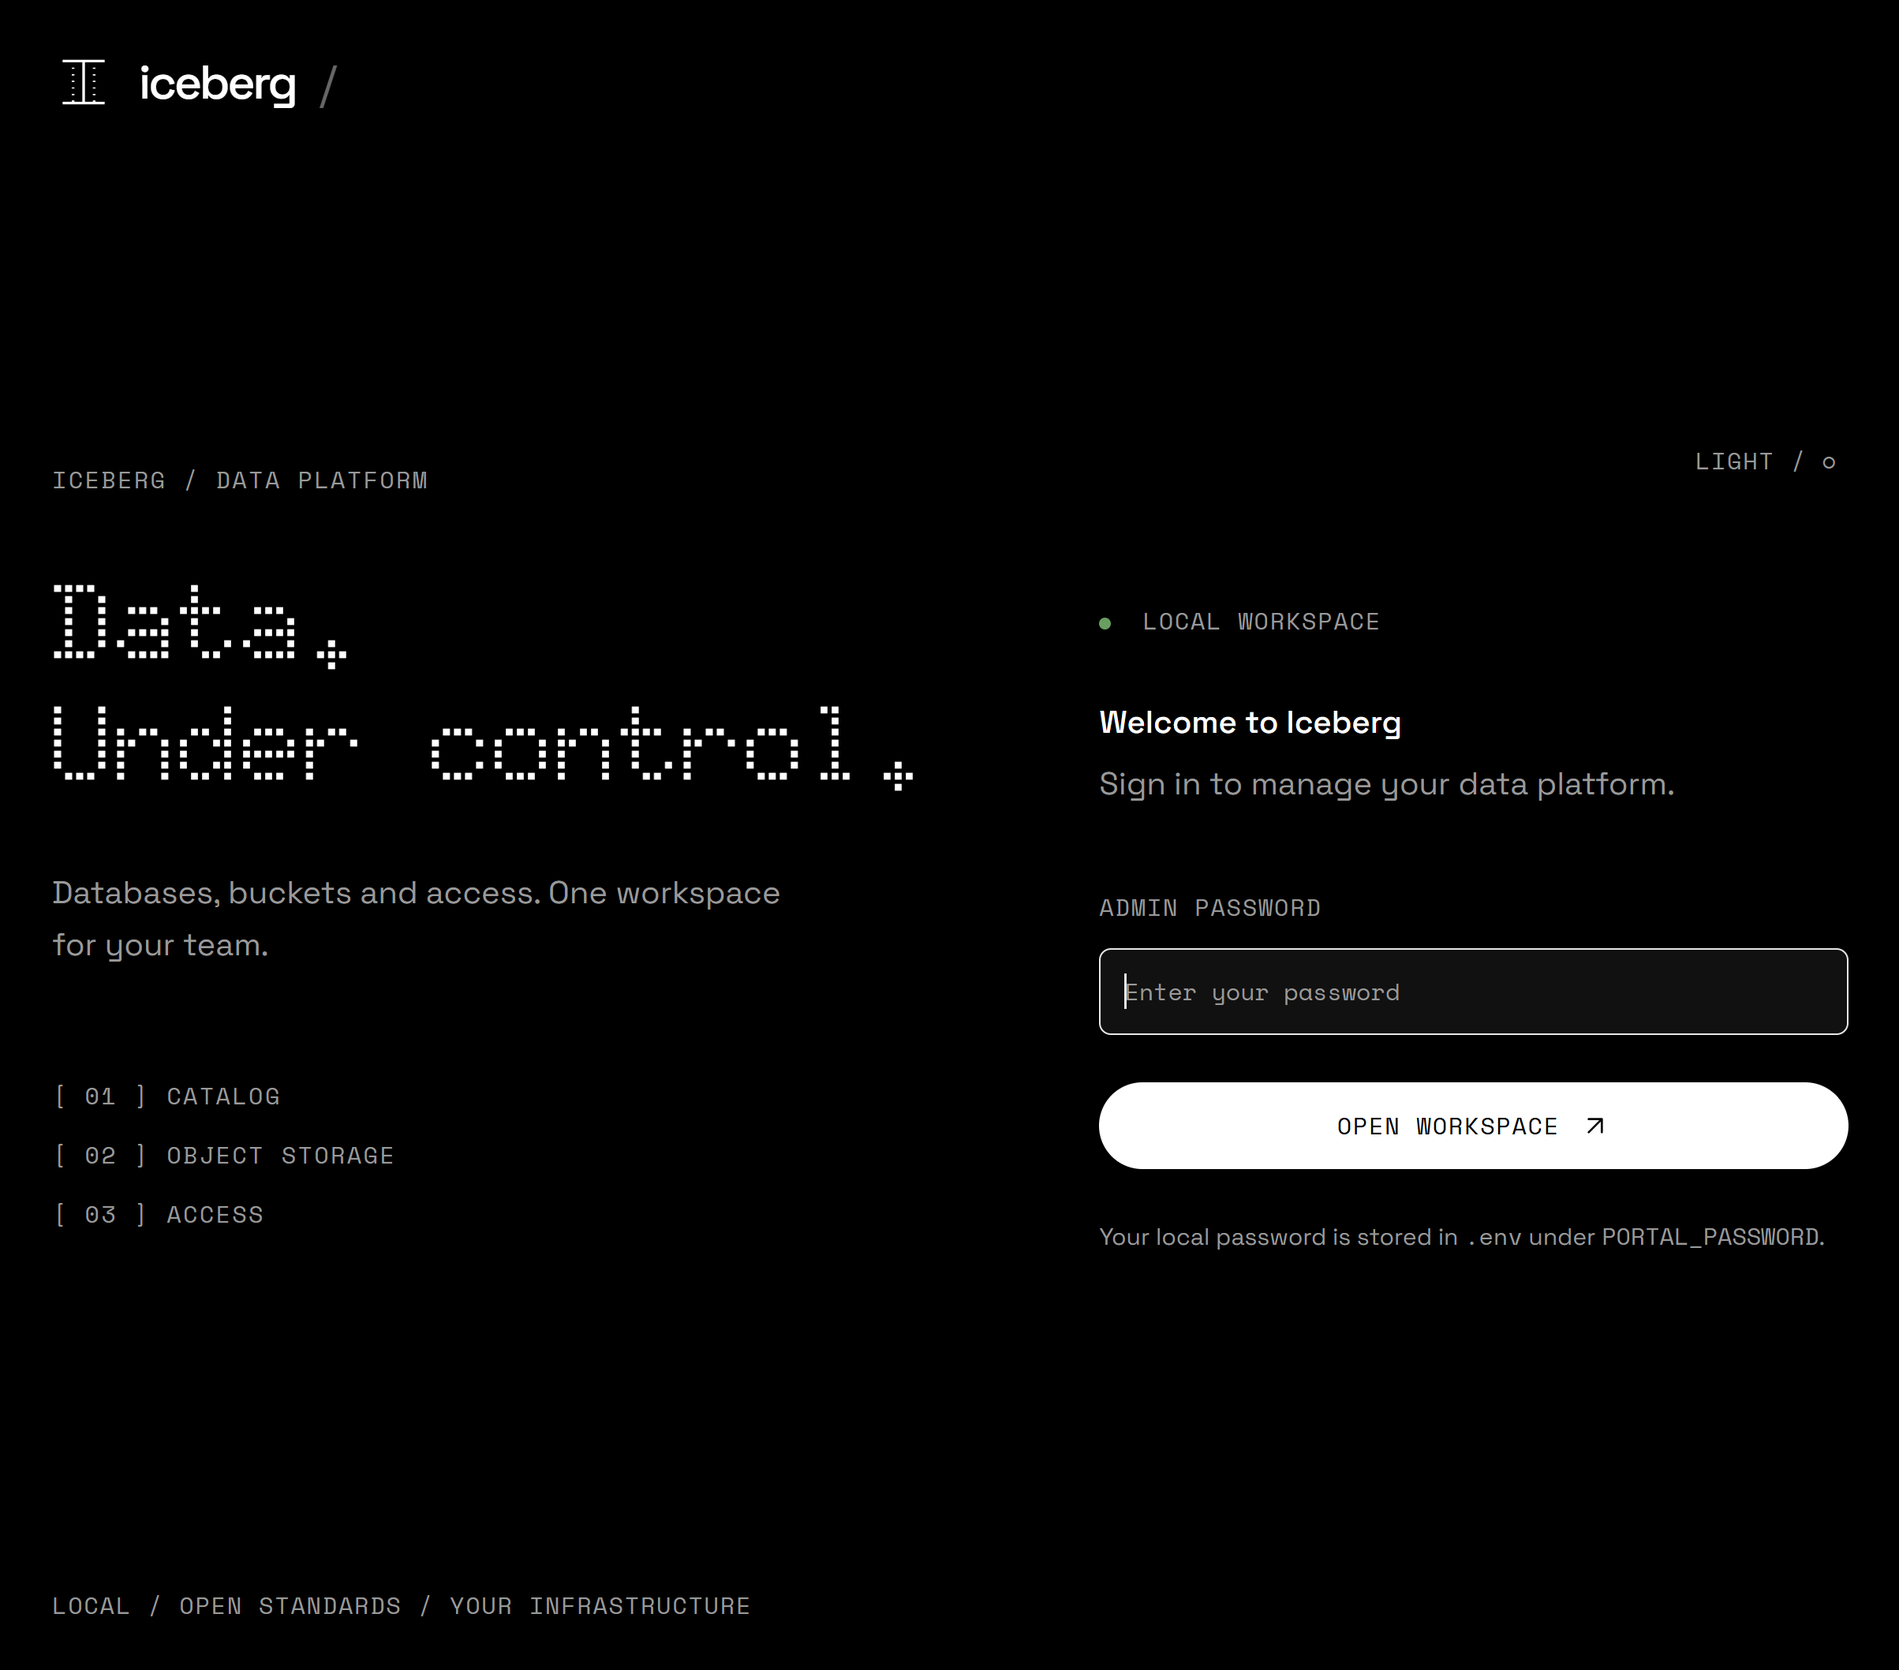
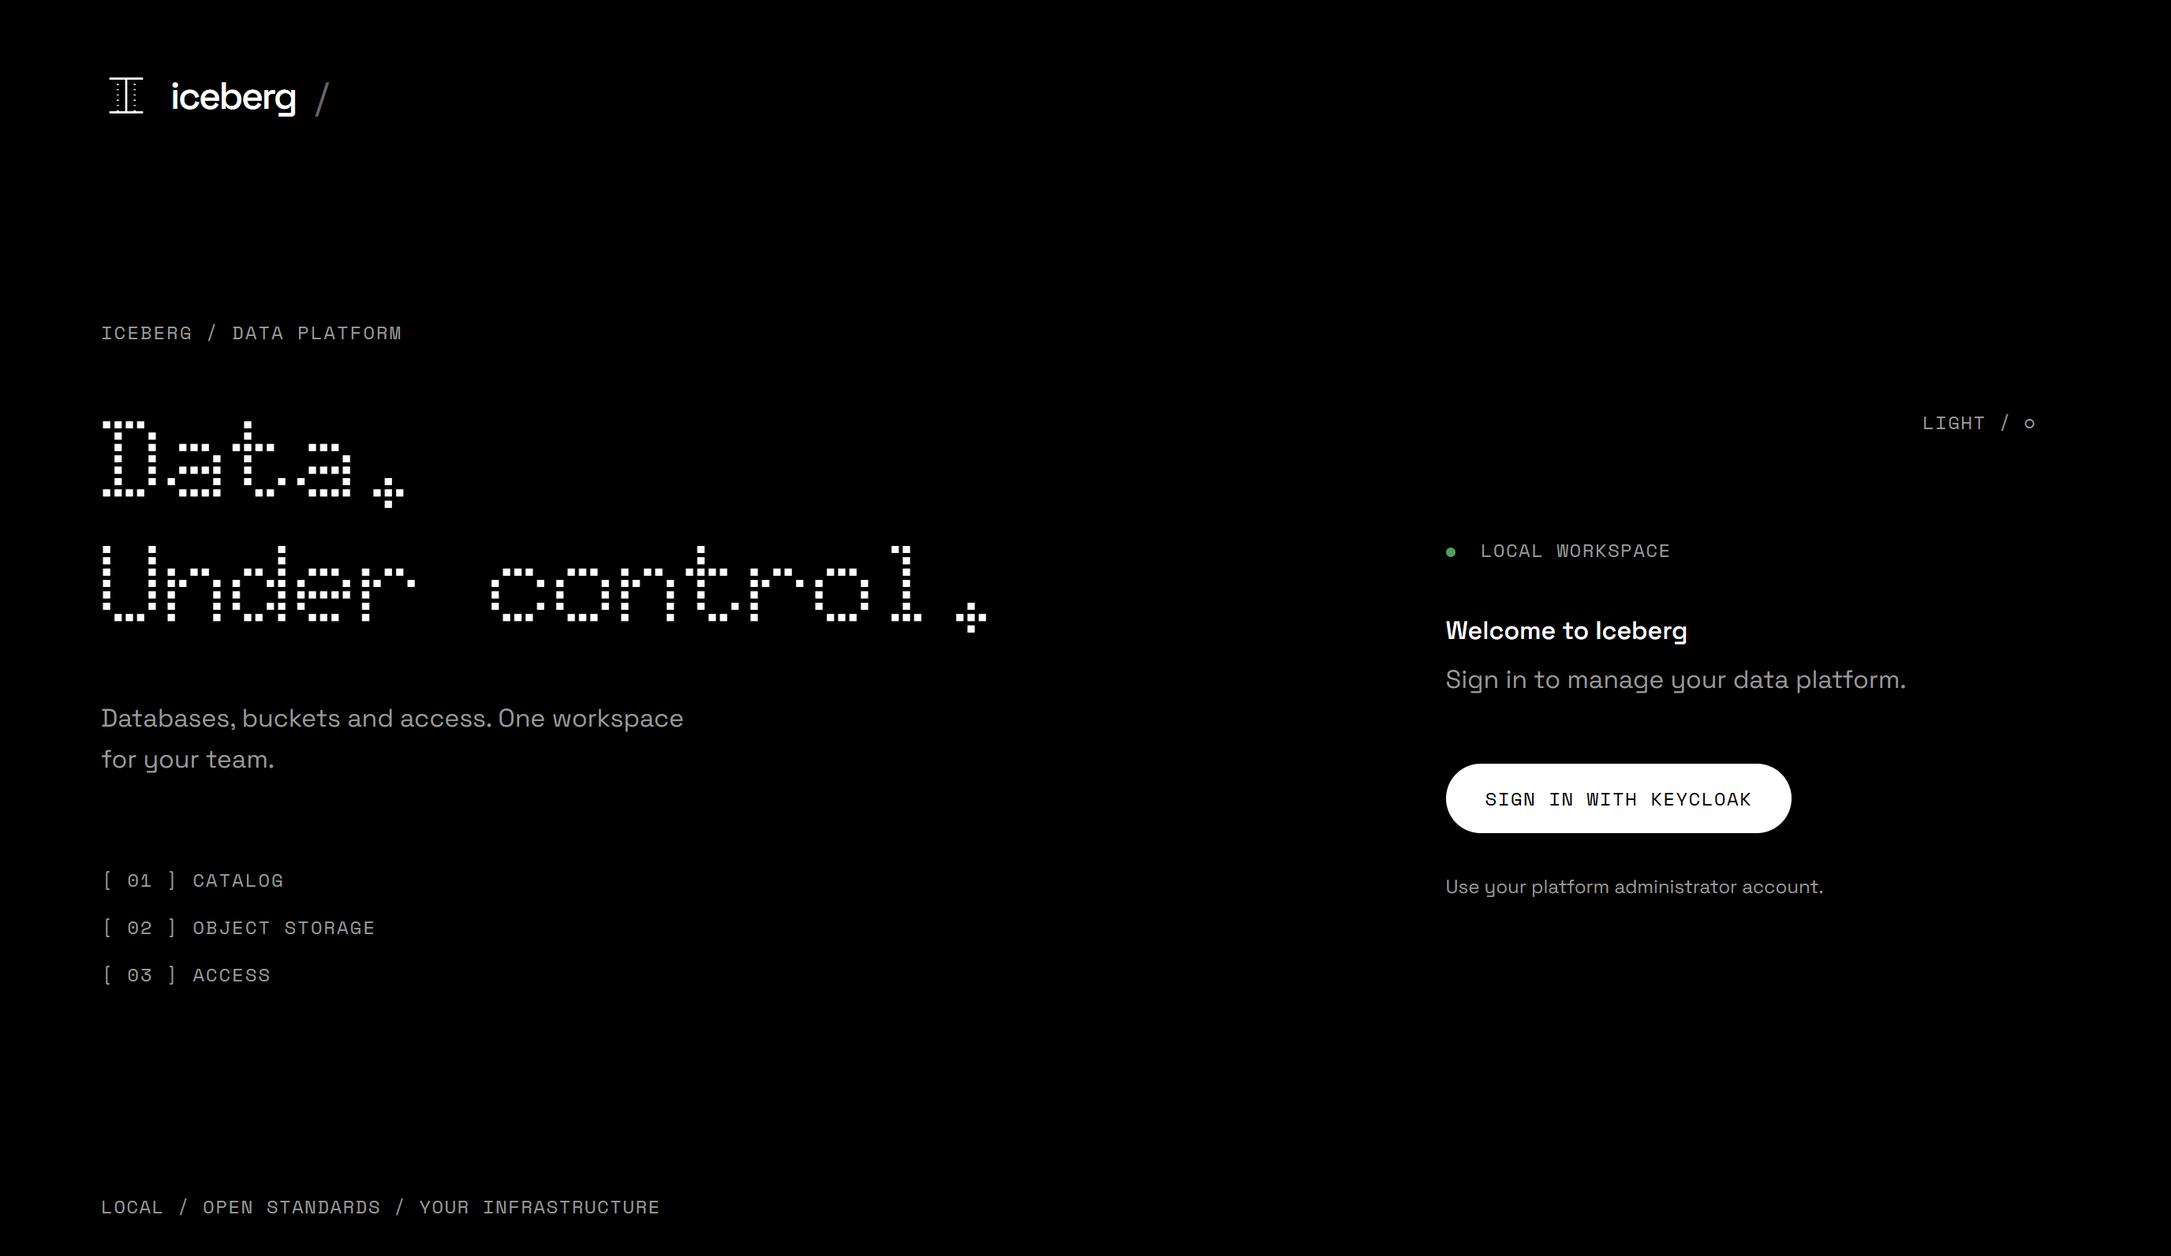
0.3.1 (#9)

diff --git a/presentation/index.html b/presentation/index.html
@@ -99,6 +99,11 @@
     .reveal table td.num { font-family: var(--r-code-font); text-align: right; white-space: nowrap; }
     .reveal table th.num { text-align: right; }
     .reveal table td.mono { font-family: var(--r-code-font); }
+    /* API tables: two dense endpoint lists side by side */
+    .reveal table.api { font-size: 0.5em; }
+    .reveal table.api td { padding: 8px 12px 8px 0; }
+    .reveal table.api td.mono { white-space: nowrap; color: var(--text-display); }
+    .reveal table.api td.verb { color: var(--text-secondary); }
     /* Layer list: indentation is the hierarchy */
     .reveal .layers { font-size: 0.72em; }
     .reveal .layer { display: grid; grid-template-columns: 360px 1fr; gap: var(--space-lg); padding: 12px 0; border-bottom: 1px solid var(--border); align-items: baseline; }
@@ -461,6 +466,43 @@
   <p class="lede foot">Ownership is explicit: a team owns a database, a database owns a bucket. That is the whole governance model.</p>
 </section>
 
+<section>
+  <div class="label">03 · Platform</div>
+  <h2>API first: both portals are just clients</h2>
+  <div class="cols" style="grid-template-columns:11fr 9fr">
+    <div class="group">
+      <div class="label">Admin API · :3000 · OpenAPI at /docs</div>
+      <table class="api"><tbody>
+        <tr><td class="mono verb">GET POST DELETE</td><td class="mono">/api/session</td><td>Auth state, sign in, sign out</td></tr>
+        <tr><td class="mono verb">GET</td><td class="mono">/api/overview</td><td>Health, teams, databases, users</td></tr>
+        <tr><td class="mono verb">GET POST PATCH DELETE</td><td class="mono">/api/teams[/{id}]</td><td>Teams</td></tr>
+        <tr><td class="mono verb">GET POST PATCH DELETE</td><td class="mono">/api/databases[/{id}]</td><td>Catalog plus bucket, per team</td></tr>
+        <tr><td class="mono verb">GET</td><td class="mono">/api/databases/{id}/connection</td><td>Iceberg REST connection details</td></tr>
+        <tr><td class="mono verb">GET POST PATCH DELETE</td><td class="mono">/api/users[/{id}]</td><td>Users and their role per team</td></tr>
+        <tr><td class="mono verb">GET POST</td><td class="mono">/api/identity/{accounts,users,links}</td><td>Find, create, link Keycloak accounts</td></tr>
+        <tr><td class="mono verb">POST</td><td class="mono">/api/users/{id}/identity[/retry|/password]</td><td>Link, retry, reset password</td></tr>
+        <tr><td class="mono verb">GET</td><td class="mono">/api/admin/explorer/{databases,contents}</td><td>Browse every catalog</td></tr>
+        <tr><td class="mono verb">GET</td><td class="mono">/api/infrastructure · /api/health</td><td>Live service metrics, liveness</td></tr>
+      </tbody></table>
+    </div>
+    <div class="group">
+      <div class="label">User gateway · :3002</div>
+      <table class="api"><tbody>
+        <tr><td class="mono verb">GET POST DELETE</td><td class="mono">/api/session</td><td>Auth state, sign in, sign out</td></tr>
+        <tr><td class="mono verb">GET</td><td class="mono">/api/workspace</td><td>My teams, databases, notebooks</td></tr>
+        <tr><td class="mono verb">PATCH</td><td class="mono">/api/team · /api/environment</td><td>Switch team or Dev, Acc, Prod</td></tr>
+        <tr><td class="mono verb">GET</td><td class="mono">/api/contents · /api/details</td><td>Tables, schema, snapshots</td></tr>
+        <tr><td class="mono verb">POST</td><td class="mono">/api/preview</td><td>Table preview, 100 rows max</td></tr>
+        <tr><td class="mono verb">POST DELETE</td><td class="mono">/api/notebooks[/{id}]</td><td>Start and stop a marimo container</td></tr>
+        <tr><td class="mono verb">ANY · WS</td><td class="mono">/workspaces/{id}/…</td><td>Proxy into that container</td></tr>
+        <tr><td class="mono verb">GET</td><td class="mono">/api/health</td><td>Liveness</td></tr>
+      </tbody></table>
+    </div>
+  </div>
+  <p class="secondary foot"><span class="dot"></span>No private backdoor for the UI: every button is a fetch to one of these routes, and the OpenAPI schema is generated from the same code. One level down it is open APIs again: Iceberg REST on Polaris, S3 on RustFS, OIDC on Keycloak.</p>
+  <aside class="notes">Both portals are static pages that only call their own FastAPI app. Everything in the demo that follows is one of these routes. Swagger UI sits behind the admin sign-in at :3000/docs; mutations need a session and the X-Portal-Request header.</aside>
+</section>
+
 <section class="shot-slide">
   <div class="head"><span class="label">Demo · Sign in</span><h2>One identity for everything</h2></div>
   <div class="fig"><img class="shot" src="screenshots/01-keycloak-login.png" alt="Keycloak sign-in page for the iceberg realm"></div>
@@ -492,7 +534,7 @@
 </section>
 
 <section class="shot-slide">
-  <div class="head"><span class="label">Demo · Administration</span><h2>A role per team, not per user</h2></div>
+  <div class="head"><span class="label">Demo · Administration</span><h2>A role per team</h2></div>
   <div class="fig"><img class="shot" src="screenshots/24-admin-edit-access.png" alt="Edit access dialog with a role select for every team of the user"></div>
   <div class="caption foot">Edit access · sander reads asset-management and writes grid-planning · each role reaches only the databases of that team</div>
   <aside class="notes">Read, read and write, or administrator, chosen per team. Saving re-syncs the Polaris grants of every database those teams own. Database administration never grants access to this portal.</aside>
@@ -728,7 +770,7 @@
 <section class="divider">
   <div class="doto num">04</div>
   <h1>What this means for us</h1>
-  <p class="secondary">Direction, ownership and three concrete steps.</p>
+  <p class="secondary">Direction and ownership.</p>
 </section>
 
 <section>
@@ -740,19 +782,6 @@
     <li><strong>Engines are replaceable.</strong> Treat them as workload decisions, not platform commitments.</li>
     <li><strong>Self-service with ownership.</strong> Teams create and own their databases. The platform team owns the building blocks.</li>
   </ul>
-</section>
-
-<section>
-  <div class="label">04 · Wrap up</div>
-  <h2>My advice: three concrete steps</h2>
-  <div class="cols-asym">
-    <ol>
-      <li><strong>Run it.</strong> One command, your laptop, twenty minutes. Load a real dataset and query it from two engines.</li>
-      <li><strong>Decide catalog and identity first.</strong> That is where lock-in and governance actually live. Storage and engines follow.</li>
-      <li><strong>Agree on ownership.</strong> Who owns buckets, who owns the catalog, who schedules table maintenance. Write it down before the first production table.</li>
-    </ol>
-  </div>
-  <p class="secondary foot">The ambition stays the same: open formats, our data, our choice of tools. This is a working example, not a slide about one.</p>
 </section>
 
 <section class="title">

diff --git a/test/test_notebook_runtime.py b/test/test_notebook_runtime.py
@@ -121,6 +121,20 @@ def test_notebooks_allow_egress_with_separate_networks_and_writable_packages(run
         assert env["MARIMO_UV_TARGET"] in env["PYTHONPATH"].split(":")
 
 
+def test_notebook_container_joins_the_stack_as_compose_one_off(runtime):
+    runtime.start(session(), "db1", [], None)
+    labels = runtime.docker.containers.run.call_args.kwargs["labels"]
+    assert labels == {
+        LABEL: runtime.scope,
+        "com.docker.compose.project": runtime.scope,
+        "com.docker.compose.service": "notebook",
+        "com.docker.compose.oneoff": "True",
+    }
+    # Networks and volumes stay outside Compose so `down` never touches notebook files.
+    assert runtime.docker.networks.create.call_args.kwargs["labels"] == {LABEL: runtime.scope}
+    assert runtime.docker.volumes.create.call_args.kwargs["labels"] == {LABEL: runtime.scope}
+
+
 def test_volume_from_another_stack_is_rejected(runtime):
     runtime.docker.volumes.get.side_effect = None
     runtime.docker.volumes.get.return_value.attrs = {"Labels": {LABEL: "other-stack"}}

diff --git a/user_portal/runtime.py b/user_portal/runtime.py
@@ -123,7 +123,14 @@ class NotebookRuntime:
                 self.image,
                 detach=True,
                 name=f"{self.scope}-marimo-{id}",
-                labels=labels,
+                # One-off Compose labels group the notebook under this stack and
+                # surface it to the monitor; Compose itself leaves it alone.
+                labels={
+                    **labels,
+                    "com.docker.compose.project": self.scope,
+                    "com.docker.compose.service": "notebook",
+                    "com.docker.compose.oneoff": "True",
+                },
                 network=network.name,
                 user="10001:10001",
                 read_only=True,

diff --git a/server/app.py b/server/app.py
@@ -54,7 +54,7 @@ def create_app(provider=None, password=None, secure_cookie=None, *, oidc=None,
         if owned:
             provider.close()
 
-    app = FastAPI(title="Iceberg Workspace API", version="0.3.0", lifespan=lifespan, redoc_url=None)
+    app = FastAPI(title="Iceberg Workspace API", version="0.3.1", lifespan=lifespan, redoc_url=None)
     sessions, attempts = {}, {}
     # This local control plane intentionally runs one worker. Serializing reads and
     # mutations also prevents orphan memberships during concurrent team deletion.

diff --git a/docs/releasing.md b/docs/releasing.md
@@ -1,6 +1,6 @@
 # Publishing a release
 
-The current version is **0.3.0**. The `Release` workflow publishes three versioned container packages and source/installation archives when a matching `vX.Y.Z` tag on `main` is pushed. Branches publish their own previews. Local tooling only prepares artifacts.
+The current version is **0.3.1**. The `Release` workflow publishes three versioned container packages and source/installation archives when a matching `vX.Y.Z` tag on `main` is pushed. Branches publish their own previews. Local tooling only prepares artifacts.
 
 ## Versions and channels
 
@@ -105,11 +105,11 @@ Scan the extracted archive with Gitleaks before uploading. CI does this automati
 3. Tag that commit on `main` and push the tag:
 
    ```bash
-   git tag -a v0.3.0 -m "Release 0.3.0"
-   git push origin v0.3.0
+   git tag -a v0.3.1 -m "Release 0.3.1"
+   git push origin v0.3.1
    ```
 
-The workflow rejects a tag that does not match the project version or is not on `main`, runs verification and a source secret scan, then builds each image on native AMD64 and ARM64 runners. It publishes `ghcr.io/sanderdw/iceberg-data-platform-{portal,users,notebook}` with exact version tags (for example `0.3.0`), architecture tags and a `latest` alias. Only after every image builds does it publish the multi-platform tags and GitHub release with installation/source archives and `SHA256SUMS`. The release is marked Latest only when it is the highest version, so a fix on an older line never takes over the installation command. The workflow then downloads `/releases/latest/download/install.sh` and `install.ps1` and fails unless they are pinned to the new version.
+The workflow rejects a tag that does not match the project version or is not on `main`, runs verification and a source secret scan, then builds each image on native AMD64 and ARM64 runners. It publishes `ghcr.io/sanderdw/iceberg-data-platform-{portal,users,notebook}` with exact version tags (for example `0.3.1`), architecture tags and a `latest` alias. Only after every image builds does it publish the multi-platform tags and GitHub release with installation/source archives and `SHA256SUMS`. The release is marked Latest only when it is the highest version, so a fix on an older line never takes over the installation command. The workflow then downloads `/releases/latest/download/install.sh` and `install.ps1` and fails unless they are pinned to the new version.
 
 The Docker-only bundle is generated from the source Compose definitions, removes all build contexts, keeps bind mounts relative, and pins all application images, including the notebook image used by the user portal, to the released version. It includes setup and pgAdmin configuration without local credentials. The two Compose files preserve the platform/workspace split, with Keycloak in the platform project. The `install.sh` and `install.ps1` release assets download the matching bundle, verify its checksum, generate `.env`, pull images and start both stacks. Their stable URLs are `/releases/latest/download/install.sh` and `/releases/latest/download/install.ps1`; `/releases/download/vX.Y.Z/` serves the same installers for one exact version. The unpinned `install.sh` and `install.ps1` in the source tree are templates that follow `latest`; the build pins them.
 

diff --git a/README.md b/README.md
@@ -1,11 +1,9 @@
 # Iceberg Data Platform
 
-A local platform for managing team access to Apache Iceberg and exploring data in shared team marimo notebooks. It combines two FastAPI portals with Keycloak, Apache Polaris, PostgreSQL and RustFS.
+A local platform for managing team access to Apache Iceberg and exploring data in shared team marimo notebooks. It combines admin and user portals with Keycloak, Apache Polaris, PostgreSQL and RustFS.
 
 ![Iceberg Data Platform](docs/portal.png)
 
-
-**Independent project · Apache-2.0 · Python 3.14 · uv · English interface and documentation**
 
 ## What it does
 
@@ -42,7 +40,7 @@ irm https://github.com/sanderdw/iceberg-data-platform/releases/latest/download/i
 
 The installer creates `~/iceberg-data-platform`, prepares `.env`, pulls application
 images and starts both projects. These commands always install the newest stable
-release from `main`; replace `latest/download` with `download/v0.3.0` to install
+release from `main`; replace `latest/download` with `download/v0.3.1` to install
 exactly that version. See the [installation guide](docs/install.md) for configuration
 and updates.
 
@@ -96,6 +94,7 @@ Setup generates random development credentials in `.env`, sets restrictive file 
 | Polaris Iceberg REST API | http://localhost:8181/api/catalog | Keycloak bearer token (native credentials for services)    |
 | RustFS console           | http://localhost:9001             | Issued bucket-admin credentials or local root credentials |
 | pgAdmin                  | http://localhost:5050             | `PGADMIN_EMAIL` + `PGADMIN_PASSWORD` from `.env`            |
+| FastAPI Endpoints        | http://localhost:3000/docs        | `platform-admin` + initial `PLATFORM_ADMIN_PASSWORD`       |
 
 All default host ports bind to `127.0.0.1`. PostgreSQL is internal only. The portal's authenticated API documentation is available at `/docs` on port 3000.
 

diff --git a/docs/install.md b/docs/install.md
@@ -42,11 +42,11 @@ also serves installers pinned to itself: its bundle, Compose files and applicati
 images all carry that version. Replace `latest/download` with `download/vX.Y.Z`:
 
 ```bash
-curl -fsSL https://github.com/sanderdw/iceberg-data-platform/releases/download/v0.3.0/install.sh | sh
+curl -fsSL https://github.com/sanderdw/iceberg-data-platform/releases/download/v0.3.1/install.sh | sh
 ```
 
 ```powershell
-irm https://github.com/sanderdw/iceberg-data-platform/releases/download/v0.3.0/install.ps1 | iex
+irm https://github.com/sanderdw/iceberg-data-platform/releases/download/v0.3.1/install.ps1 | iex
 ```
 
 ## Test a branch

diff --git a/docs/admin-guide.md b/docs/admin-guide.md
@@ -146,6 +146,8 @@ a private connection. The collector has no published host port by default.
 Set `MONITOR_USERS_URL=http://users:3002` in `.env` and recreate `monitor` to include
 health checks for the optional user portal. `MONITOR_PROJECTS` selects the Compose
 projects whose container resources are collected.
+Open notebooks carry the `iceberg-workspaces` project label, so each one appears as
+a `notebook` container while its workspace is open.
 
 Each source shows its own last successful update and marks stale or unavailable
 readings. Missing metrics display a dash. Probe history holds up to 60 checks in

diff --git a/CHANGELOG.md b/CHANGELOG.md
@@ -1,6 +1,8 @@
 # Changelog
 
-## Unreleased
+## 0.3.1 — 2026-09-19
+
+- Open notebooks are grouped under the `iceberg-workspaces` stack in Docker tools and listed with their CPU and memory on the **Infrastructure** page. Compose commands leave them alone; the user portal still starts and removes them.
 
 ## 0.3.0 — 2026-09-19
 
